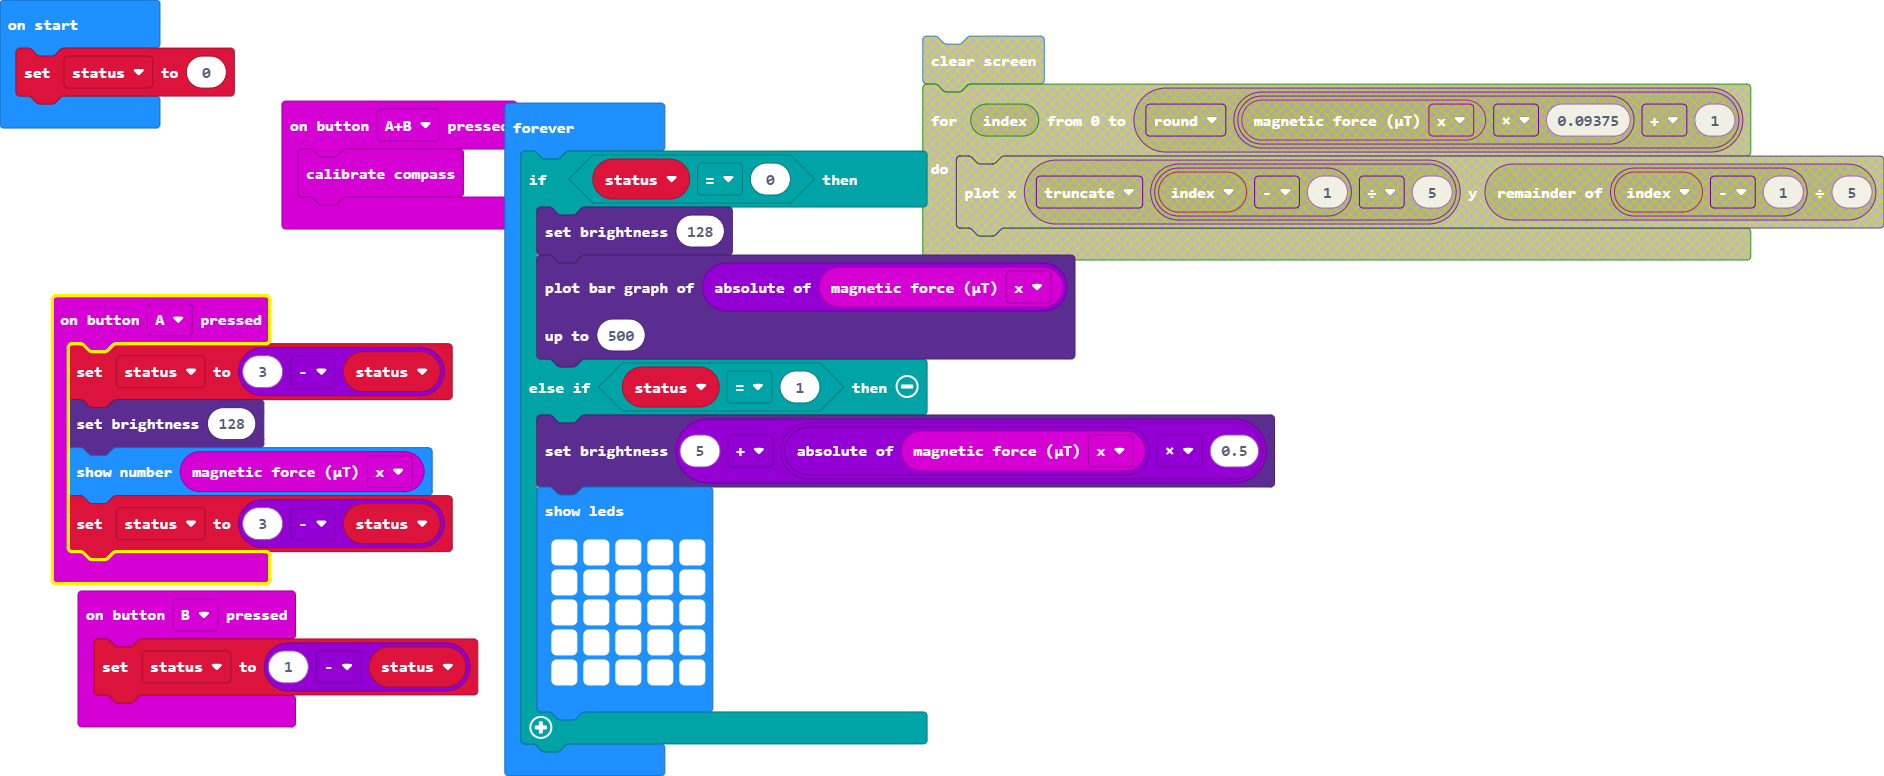
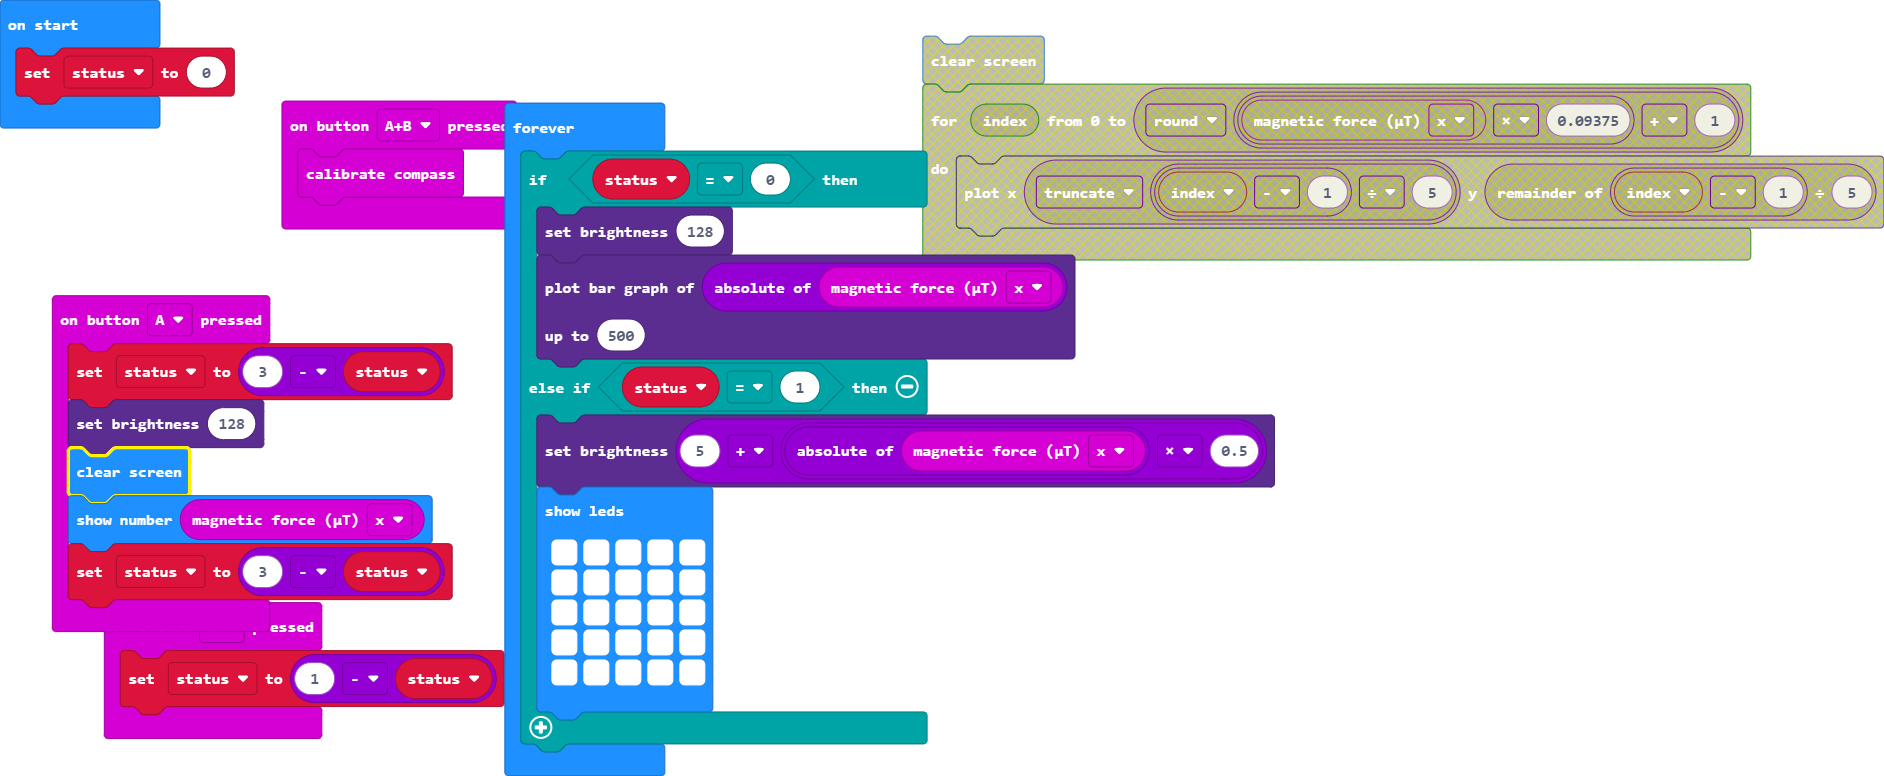
Update main.blocks, main.ts

Changed region(s): [[0.0, 0.5567, 0.2771, 0.9588], [0.0308, 0.433, 0.1539, 0.4639], [0.0308, 0.3711, 0.1539, 0.4021]]

diff --git a/main.ts b/main.ts
@@ -1,6 +1,7 @@
 input.onButtonPressed(Button.A, function () {
     status = 3 - status
     led.setBrightness(128)
+    basic.clearScreen()
     basic.showNumber(input.magneticForce(Dimension.X))
     status = 3 - status
 })
